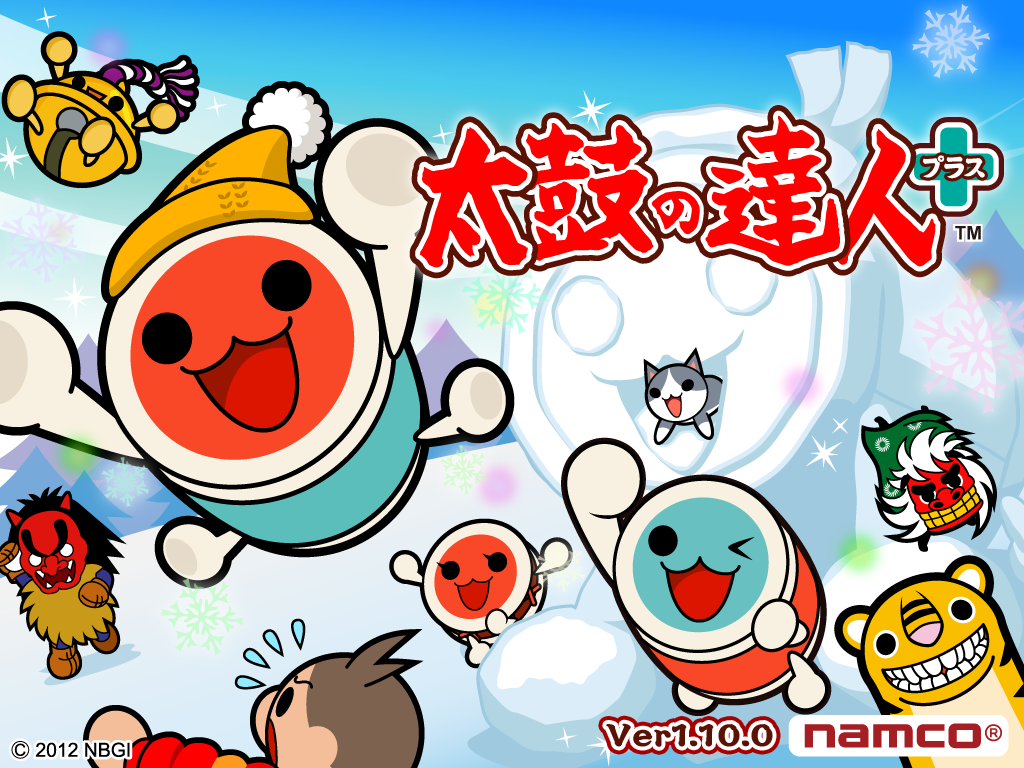
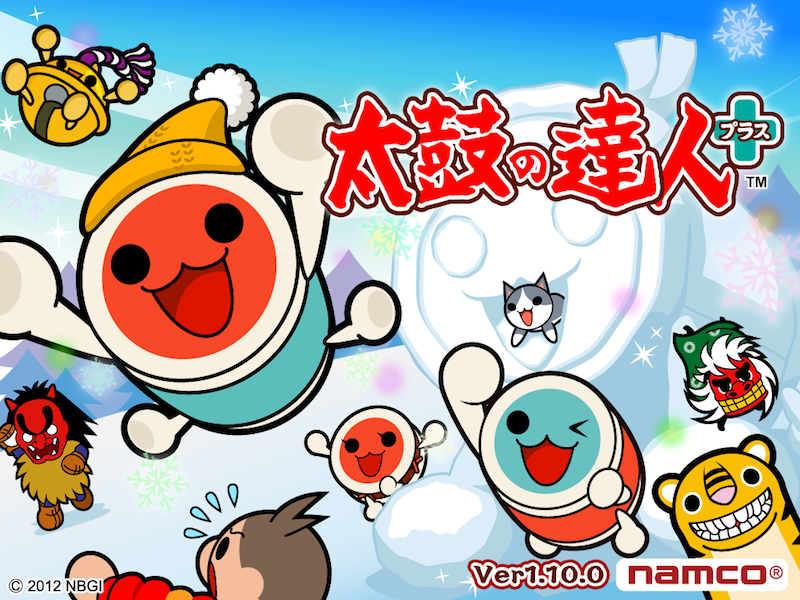
let's say it's done?

diff --git a/game.cpp b/game.cpp
@@ -8,6 +8,7 @@ Phonon::MediaObject *phononTable[100];
 int phononCounter = 0;
 QLabel *scoreLabel;
 QLabel *comboLabel;
+QLabel *mobLabel = NULL;
 
 Game::Game(QWidget *parent) :
     QWidget(parent),
@@ -70,7 +71,6 @@ Game::Game(QWidget *parent) :
     comboLabel->setStyleSheet("* {font-size: 32px;}");
     comboLabel->show();
 
-
     pressing_don = false;
     pressing_katsu = false;
 
@@ -109,6 +109,15 @@ void Game::update()
         bg_music->play();
     }
 
+    if (score > 3000 && mobLabel == NULL)
+    {
+        QPixmap mob(":/images/mob.png");
+        mobLabel = new QLabel(this);
+        mobLabel->setPixmap(mob);
+        mobLabel->setGeometry(0, 210, 800, 479);
+        mobLabel->show();
+    }
+
     if (midi.notes[current_note].start_time == update_counter)
     {
         QLabel *label = labelTable[ current_label % 100 ];
@@ -139,6 +148,15 @@ void Game::update()
             if (geom.x() < 90)
             {
                 label->setVisible(false);
+
+                if (combo != 0)
+                {
+                    Phonon::MediaObject *combo_break = phononTable[phononCounter++];
+                    combo_break->setCurrentSource(Phonon::MediaSource(":/sounds/tkds_combobreak_pst.m4a"));
+                    combo_break->play();
+                    phononCounter %= 100;
+                }
+
                 combo = 0;
             }
             geom.adjust(-4, 0, -4, 0);

diff --git a/mainwindow.cpp b/mainwindow.cpp
@@ -10,12 +10,12 @@ MainWindow::MainWindow(QWidget *parent) :
     ui(new Ui::MainWindow)
 {
     ui->setupUi(this);
+
+    QSpacerItem *spacer = new QSpacerItem(0, -200);
+    ui->verticalLayout->addItem(spacer);
     ui->verticalLayout->setAlignment(Qt::AlignCenter);
 
-    ui->frame->setFrameStyle(QFrame::StyledPanel);
-    ui->frame->setStyleSheet("background-image: url(:/images/background.jpg)");
-
-    setStyleSheet(QString("QPushButton { font-family: 'Avenir Next'; font-size: 40px; font-weight: bold; }"));
+    setStyleSheet(QString("QMainWindow { background-image: url(:/images/title.png); } QPushButton { font-family: 'AvenirNext-Regular'; font-size: 40px; font-weight: bold; };"));
 
     sound_menu = new Phonon::MediaObject(this);
     createPath(sound_menu, new Phonon::AudioOutput(Phonon::MusicCategory, this));
@@ -85,6 +85,8 @@ void MainWindow::start_game(QString music_name)
 
     QString midi_path = ":/songs/" + music_name + "/notes.tnt";
     Midi midi(midi_path);
+
+    setStyleSheet(QString("QMainWindow { background-image: url(:/images/background.jpg); } QPushButton { font-family: 'AvenirNext-Regular'; font-size: 40px; font-weight: bold; };"));
 
     game = new Game(this);
     game->setMidi(midi);
